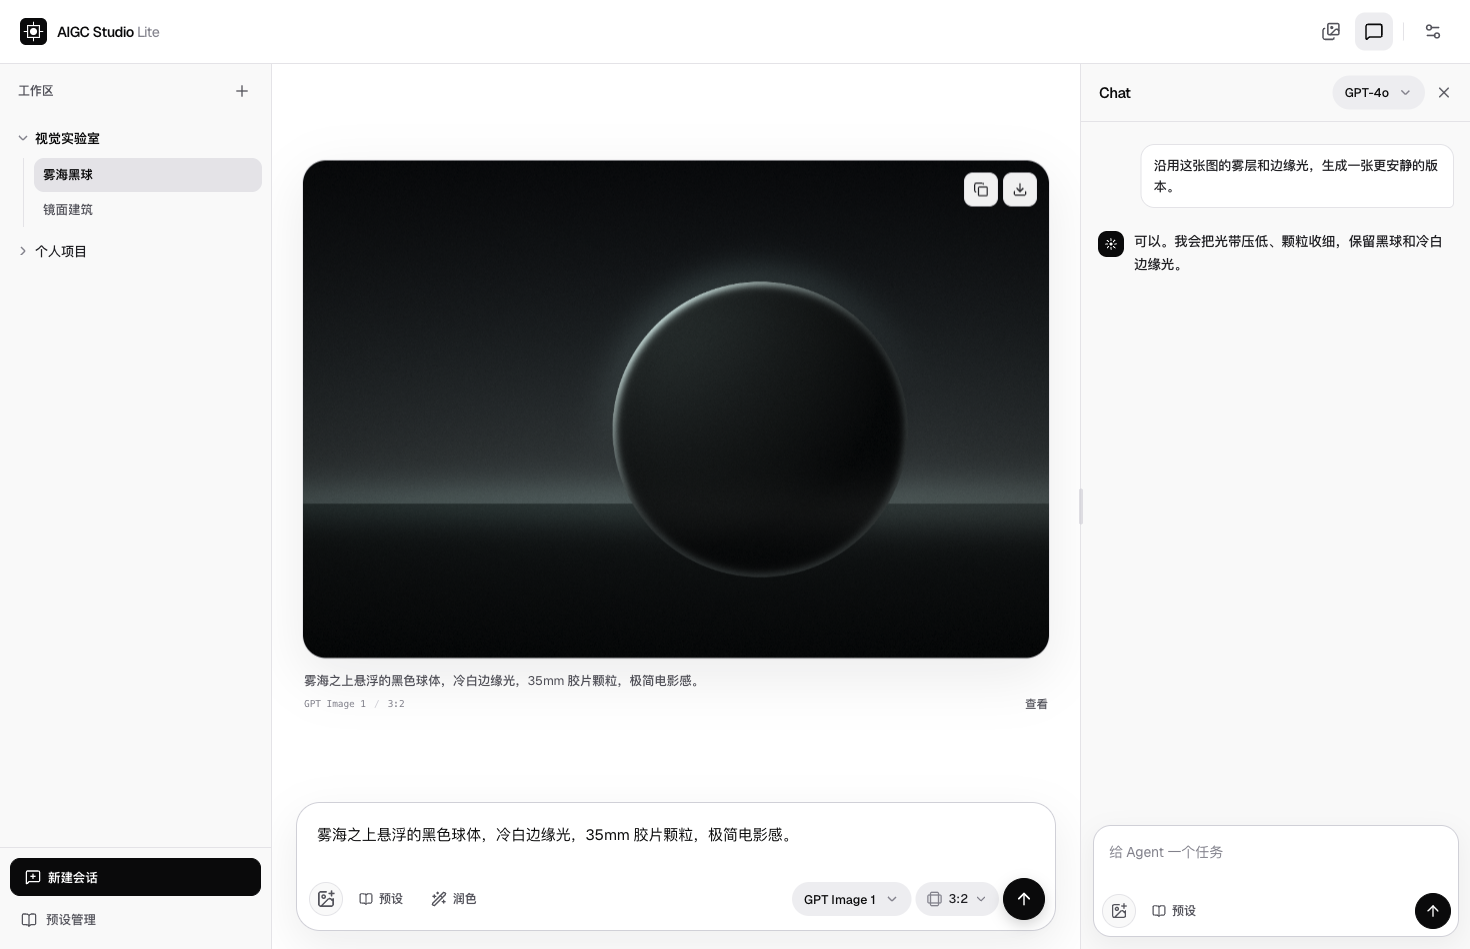
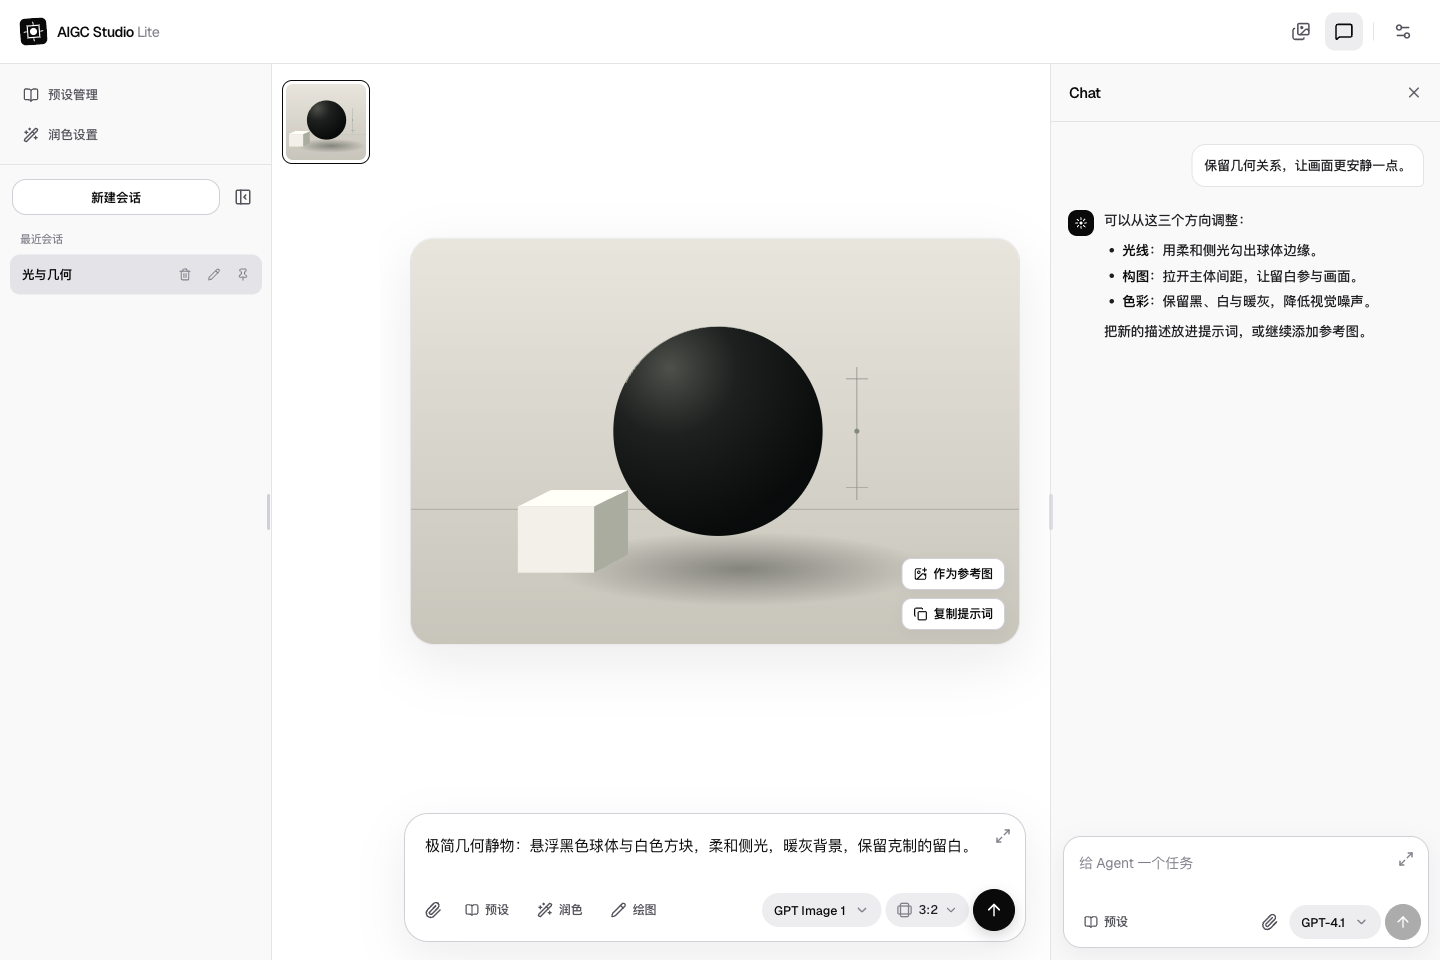
ci: 👷 接入 Workers 自动部署并更新 README
在 main 校验通过后复用构建结果部署 Worker，PR 仅校验，缺少凭证时明确跳过。
更新 README 排版、当前界面演示、线上地址与部署说明。

验证：本地 86 项测试、类型检查和构建通过，Workers dry-run 与 README 资源检查通过。

diff --git a/README.md b/README.md
@@ -1,72 +1,113 @@
-# AIGC Studio Lite
+<p align="center">
+  <img src="docs/readme-mark.svg" width="56" height="56" alt="AIGC Studio Lite 标志">
+</p>
 
-![AIGC Studio Lite 工作台](docs/preview.png)
+<h1 align="center">AIGC Studio Lite</h1>
 
-本地优先的轻量 AI 图像工作台。接入 OpenAI、Google 或 xAI，在同一会话中生成图像、与 Agent 对话、管理参考图和提示词预设。
+<p align="center">
+  <strong>从一句描述，到一张图，再到下一次迭代。</strong><br>
+  本地优先的轻量 AI 图像工作台，把生图、Agent 对话、参考图和提示词放进同一个会话。
+</p>
 
-## 开始使用
+<p align="center">
+  <a href="https://github.com/MikuHello/aigc-studio-lite/actions/workflows/ci.yml"><img src="https://github.com/MikuHello/aigc-studio-lite/actions/workflows/ci.yml/badge.svg" alt="GitHub CI 状态"></a>
+  · 自带 API Key · 浏览器本地保存 · Cloudflare Workers
+</p>
 
-推荐 Node.js 24（仓库 `.nvmrc`）。
+<p align="center">
+  <a href="https://aigc-studio-lite.level5.workers.dev/">在线使用 ↗</a> ·
+  <a href="#快速开始">快速开始</a> ·
+  <a href="#模型与连接">模型与连接</a> ·
+  <a href="#自动部署">自动部署</a> ·
+  <a href="#开发">开发</a>
+</p>
+
+![当前工作台：左侧管理会话，中间查看图像和编辑提示词，右侧与 Agent 对话](docs/preview.png)
+
+<p align="center"><sub>界面演示参考</sub></p>
+
+## 创作，不必来回切换
+
+- **直接生图，或交给 Agent。** 在工作台调整提示词和生成参数，也可以通过支持工具调用的文本模型完成生图任务。
+- **围绕参考图继续迭代。** 上传、标注、复用图像；润色提示词、对比后采用，把常用描述保存为预设。
+- **让每次探索有迹可循。** 会话独立保存生图与 Chat 草稿，图库支持搜索、筛选、下载和批量管理；窄屏也能使用。
+
+## 快速开始
+
+直接打开 **[在线工作台](https://aigc-studio-lite.level5.workers.dev/)**，在设置中接入自己的模型即可使用。
+
+如需本地运行，准备 **Node.js 24**，版本约定见 [`.nvmrc`](.nvmrc)。
 
 ```bash
+git clone https://github.com/MikuHello/aigc-studio-lite.git
+cd aigc-studio-lite
 npm ci
 npm run dev
 ```
 
-打开 `http://127.0.0.1:5173`，进入设置，填写 API 地址与 Key。可以发现服务商模型，也可以手动添加模型 ID 和能力；兼容接口可使用自定义地址。
+打开终端显示的本地地址，默认是 `http://127.0.0.1:5173`：
 
-- 左侧管理会话、置顶、重命名及预设；会话栏可收起和调整宽度。
-- 中间输入提示词、添加参考图并生成；只展示当前模型支持的参数。
-- 右侧 Chat 与生图共用会话，Agent 可调用生图工具；窄屏使用面板布局。
-- 图库支持全部/当前会话筛选、提示词搜索、批量选择和删除；灯箱提供下载、提示词与标注。
-- 提示词可手动润色并对比采用；规则、模型与参考图使用范围在润色设置中管理。
-- 生图与 Chat 草稿分别保留；删除会话保留图库图像，删除图像则移除对应消息和参考图引用。
+1. 进入 **设置**，填写服务商 API 地址与 Key，获取模型；也可手动填写模型 ID 和能力。
+2. 选择图像模型，输入画面描述；需要时添加参考图。
+3. 点击 **生成**。需要 Agent 协助时，再选择支持工具调用的文本模型。
 
-## 网络方式
+项目不提供模型额度；实际调用使用所配置服务商的 API 与计费规则。
 
-| 方式        | 行为                                                        |
+## 模型与连接
+
+设置页支持 **OpenAI / 兼容服务、Google Gemini、xAI**。OpenAI 兼容文本接口可自动选择 Chat Completions / Responses；图像参数随模型能力显示。
+
+| 网络方式    | 适用场景                                                    |
 | ----------- | ----------------------------------------------------------- |
-| 自动        | 同源 Worker 代理可用时使用代理，否则直连                    |
-| 直连        | 浏览器直接请求所填 API 地址，受该服务商 CORS 策略影响       |
-| Worker 代理 | 经同源 `/api/proxy` 转发，仅允许四家服务商的官方 HTTPS 主机 |
+| 自动        | 有同源 Worker 代理时使用代理，否则直连                      |
+| 直连        | 浏览器直接请求 API；自定义网关使用此方式，需支持 CORS       |
+| Worker 代理 | 同源 `/api/proxy` 转发，仅放行代码白名单中的官方 HTTPS 主机 |
 
-自定义网关应使用直连；内置代理不会替任意自定义域名转发。OpenAI 兼容文本接口支持自动选择 Chat Completions / Responses；认证、限流和服务端失败不会触发盲目重试。
+Anthropic 适配器保留在代码层，设置页暂未提供新增入口。模型 ID 推断和手动能力声明不能替代服务商的实际支持范围。
 
-## 本地数据
+## 自动部署
 
-会话、图库、预设和设置存储于 IndexedDB，草稿额外写入 localStorage 以减少刷新丢失。API Key 与元数据分开保存：当前设置页将连接的 Key 保存在本机 localStorage。Worker 只随请求转发 Key，不持久化。Markdown 渲染使用 DOMPurify 清理。
+一套 [GitHub Actions 工作流](.github/workflows/ci.yml) 完成校验、构建与 Workers 部署。前端静态资源和 `/api/proxy` 随同一个 Worker 发布，无需额外配置业务后端。
 
-Anthropic 适配器仍保留于代码层，但当前设置页没有新增接入入口。
+1. 在 Cloudflare 创建部署用 API Token，使用 **Edit Cloudflare Workers** 模板并限定到目标账号。
+2. 在仓库 **Settings → Secrets and variables → Actions** 添加以下 Secrets：
 
-数据与站点域名绑定；清理浏览器站点数据会删除本地内容。项目不包含账号、跨设备同步或完整备份导出。模型能力来自模型 ID 推断或人工配置，实际支持范围以服务商为准。
+   | Secret                  | 内容                    |
+   | ----------------------- | ----------------------- |
+   | `CLOUDFLARE_API_TOKEN`  | Cloudflare 部署令牌     |
+   | `CLOUDFLARE_ACCOUNT_ID` | 目标 Cloudflare 账号 ID |
 
-## 开发
+3. 将工作流推送到 `main` 后，校验通过即会自动部署；也可在 **Actions → CI → Run workflow** 选择 `main` 手动运行。
 
-[开发规范](CONTRIBUTING.md) 约定注释白名单、字段语义、模块职责和回归取舍；[整理记录与上线准备](docs/maintenance.md) 记录本次整改、待办和部署条件。
+Pull Request 只执行校验与构建。未设置部署 Secrets 时，部署步骤会跳过，并在运行摘要中说明；通过 CI 不等于已部署。流程复用当次构建结果，调用锁定依赖中的 Wrangler，不重复构建。
 
-| 命令                   | 用途                                    |
-| ---------------------- | --------------------------------------- |
-| `npm run dev`          | 本地前端开发                            |
-| `npm run lint`         | 代码规则与注释检查                      |
-| `npm run format`       | 统一代码、样式与文档格式                |
-| `npm run format:check` | 格式不一致时直接失败                    |
-| `npm run typecheck`    | 前端与 Worker 类型检查                  |
-| `npm test`             | 契约与风险回归                          |
-| `npm run check`        | lint、格式、测试、类型检查与构建        |
-| `npm run build`        | 类型检查后生成 `dist/`                  |
-| `npm run preview`      | 预览生产前端                            |
-| `npm run dev:worker`   | 构建并启动本地 Worker 与静态资源        |
-| `npm run deploy`       | 构建并发布 Cloudflare Worker 与静态资源 |
+现有站点：[aigc-studio-lite.level5.workers.dev](https://aigc-studio-lite.level5.workers.dev/)。Worker 名称为 `aigc-studio-lite`，配置见 [`wrangler.jsonc`](wrangler.jsonc)。使用同一账号 ID 和 Worker 名称即可更新已有站点；GitHub 自动部署通过上述 Secrets 认证。
 
-领域类型在 `src/types.ts`，服务商契约在 `src/providers/types.ts`。新增服务商需实现适配器、注册模型能力，并按实际部署需求更新 Worker 的域名白名单；Agent 无需了解各家协议。
-
-## 部署
-
-纯静态托管只需发布 `npm run build` 生成的 `dist/`，请求使用浏览器直连。同仓 `wrangler.jsonc` 已配置 Workers Static Assets，可同时部署页面与同源代理：
+<details>
+<summary>本地预览 Worker 或手动发布</summary>
 
 ```bash
 npm run dev:worker
-npm run deploy
 ```
 
-部署前登录 Cloudflare 并确定 Worker 名称。已配置 GitHub CI 统一校验，尚未在 GitHub 运行；自动发布尚未启用。后续 GitHub Actions 可在检查通过后运行 Wrangler，凭证与触发方式见[上线准备](docs/maintenance.md#github-与-cloudflare-上线准备)。
+手动发布时，先运行 `npx wrangler login` 完成认证，再执行 `npm run deploy`。不要将部署 Token 写入源码或前端环境变量。
+
+</details>
+
+## 数据留在当前浏览器
+
+作品、会话、预设与设置保存于 IndexedDB，草稿额外写入 localStorage。当前设置页将 API Key 保存在本机 localStorage；Worker 只随请求转发，不持久化 Key。
+
+项目不提供账号、跨设备同步或完整备份导出。清理站点数据会删除本地内容，更换部署域名也不会自动迁移数据。删除会话保留图库图像；删除图像会同时移除相关消息与参考图引用。
+
+## 开发
+
+React + TypeScript + Vite，Zustand 管理状态，Cloudflare Workers 承载同源代理与静态资源。
+
+```bash
+npm run check
+```
+
+统一执行 lint、格式校验、测试、前端与 Worker 类型检查，以及生产构建。日常使用 `npm run format` 对齐格式，`npm test` 运行风险回归；提交信息采用 **Conventional Commits + gitmoji**。
+
+[开发规范](CONTRIBUTING.md) · [维护记录与部署边界](docs/maintenance.md)

diff --git a/docs/maintenance.md b/docs/maintenance.md
@@ -138,15 +138,17 @@
 
 可行。当前构建输出为 `dist/`，`wrangler.jsonc` 同时绑定静态资源与 `worker/index.ts`，SPA 回退已配置。Workers 可以一次部署脚本与静态资产，不需要新增后端服务。[Cloudflare Static Assets](https://developers.cloudflare.com/workers/static-assets/)
 
-已落地 `.github/workflows/ci.yml`：push、pull request 或手动触发后，在 Node.js 24 执行 `npm ci` 与 `npm run check`。GitHub 的 checkout/setup-node 版本取自当前官方使用示例。[setup-node](https://github.com/actions/setup-node)
+初始化提交 `43a0150` 的 GitHub CI 已通过。`.github/workflows/ci.yml` 统一在 Node.js 24 执行 `npm ci` 与 `npm run check`，覆盖主分支推送、pull request 和手动触发。[首次 CI](https://github.com/MikuHello/aigc-studio-lite/actions/runs/39872751999)
 
-后续启用发布时，只需在受保护的发布环境设置 `CLOUDFLARE_ACCOUNT_ID` 和受限的 `CLOUDFLARE_API_TOKEN`，在检查完成后运行锁定依赖中的 `npx wrangler deploy`。先使用手动触发验证正式域名，再按需要改为主分支自动触发；不要同时开启两条独立的自动发布路径。[Cloudflare GitHub Actions](https://developers.cloudflare.com/workers/ci-cd/external-cicd/github-actions/)
+本次在同一工作流末尾接入部署：只有 `main` 的推送或手动运行，在校验通过且两个部署 Secrets 齐备时执行 `npx wrangler deploy`；PR 不进入部署步骤。复用当次构建的 `dist/`，使用锁定依赖中的 Wrangler，不另建重复构建流水线。`main` 上的新运行排队，避免中途取消正在进行的部署。
+
+启用时，在仓库 Actions Secrets 设置 `CLOUDFLARE_ACCOUNT_ID` 和限定到目标账号的 `CLOUDFLARE_API_TOKEN`。缺少任一 Secret 时会跳过部署并在 Actions 摘要提示，校验通过不代表发布完成。站点已上线至 [aigc-studio-lite.level5.workers.dev](https://aigc-studio-lite.level5.workers.dev/)；GitHub 已配置这两项 Secrets，自动部署结果以对应 Actions 运行中的 `Deploy Cloudflare Worker` 步骤为准。[Cloudflare GitHub Actions](https://developers.cloudflare.com/workers/ci-cd/external-cicd/github-actions/)
 
 `assets.run_worker_first: ["/api/*"]` 让 API 经过 Worker，普通静态资源通常直接返回。因此静态页面响应头由 `public/_headers` 提供，Worker 代码生成的响应仍由 Worker 设置，不能只依赖脚本中的资产兜底分支。[资产路由](https://developers.cloudflare.com/workers/static-assets/routing/worker-script/)、[静态响应头](https://developers.cloudflare.com/workers/static-assets/headers/)
 
 发布前只需完成以下条件：
 
-1. 确定 Worker 名称、账号和正式域名，配置部署凭证；当前未连接线上环境，未部署。
+1. 推送并运行新增部署步骤，验证已配置的 GitHub Secrets；账号必须与现有 `aigc-studio-lite` Worker 一致。
 2. 在正式同源环境验证 SPA 路由、静态响应头、`/api/proxy` 与流式取消；自定义网关使用直连，内置代理保留官方域名白名单。
 3. 用测试凭证走一次模型接入 → 生图/停止 → Chat → 图库 → 刷新恢复；本地 mock 测试不能证明真实服务商调用可用。
 4. 如果更换域名，先处理旧域名浏览器数据迁移；IndexedDB/localStorage 不会自动跨域迁移。
